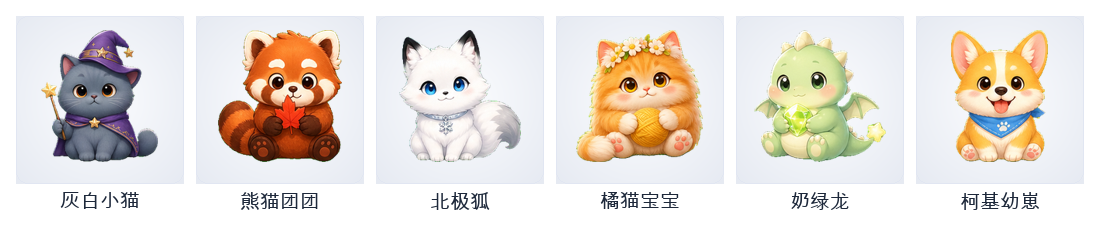
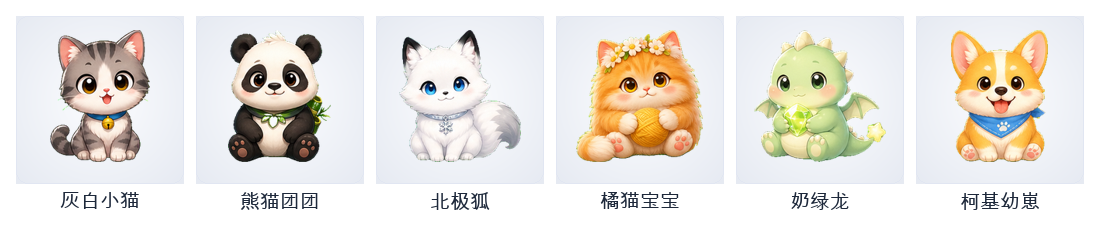
docs: fix the featured 灰白小猫 / 熊猫团团 thumbnails
The previous showcase used the wrong source pets (英短蓝猫 / 小熊猫) for the
first two slots. Swap to the pets the user actually meant, whose
displayName is literally '灰白小猫' (test-imgonly) and '熊猫团团'
(test-fallback), and regenerate the gallery strip. Also correct the
English label 'Red panda' -> 'Panda' to match the giant-panda image.

Changed region(s): [[0.1855, 0.1197, 0.3091, 0.688], [0.0309, 0.1197, 0.1545, 0.688]]

diff --git a/README.md b/README.md
@@ -240,7 +240,7 @@ Each one was generated from a single sentence — consistent style, ready to liv
   <table align="center">
     <tr>
       <td align="center"><img src="docs/images/pet-cat.png" alt="Grey-white cat" width="120"></td>
-      <td align="center"><img src="docs/images/pet-redpanda.png" alt="Red panda" width="120"></td>
+      <td align="center"><img src="docs/images/pet-redpanda.png" alt="Panda" width="120"></td>
       <td align="center"><img src="docs/images/pet-fox.png" alt="Arctic fox" width="120"></td>
       <td align="center"><img src="docs/images/pet-gingercat.png" alt="Ginger kitten" width="120"></td>
       <td align="center"><img src="docs/images/pet-dragon.png" alt="Baby dragon" width="120"></td>
@@ -248,7 +248,7 @@ Each one was generated from a single sentence — consistent style, ready to liv
     </tr>
     <tr>
       <td align="center"><sub><b>Grey-white cat</b></sub></td>
-      <td align="center"><sub><b>Red panda</b></sub></td>
+      <td align="center"><sub><b>Panda</b></sub></td>
       <td align="center"><sub><b>Arctic fox</b></sub></td>
       <td align="center"><sub><b>Ginger kitten</b></sub></td>
       <td align="center"><sub><b>Baby dragon</b></sub></td>
